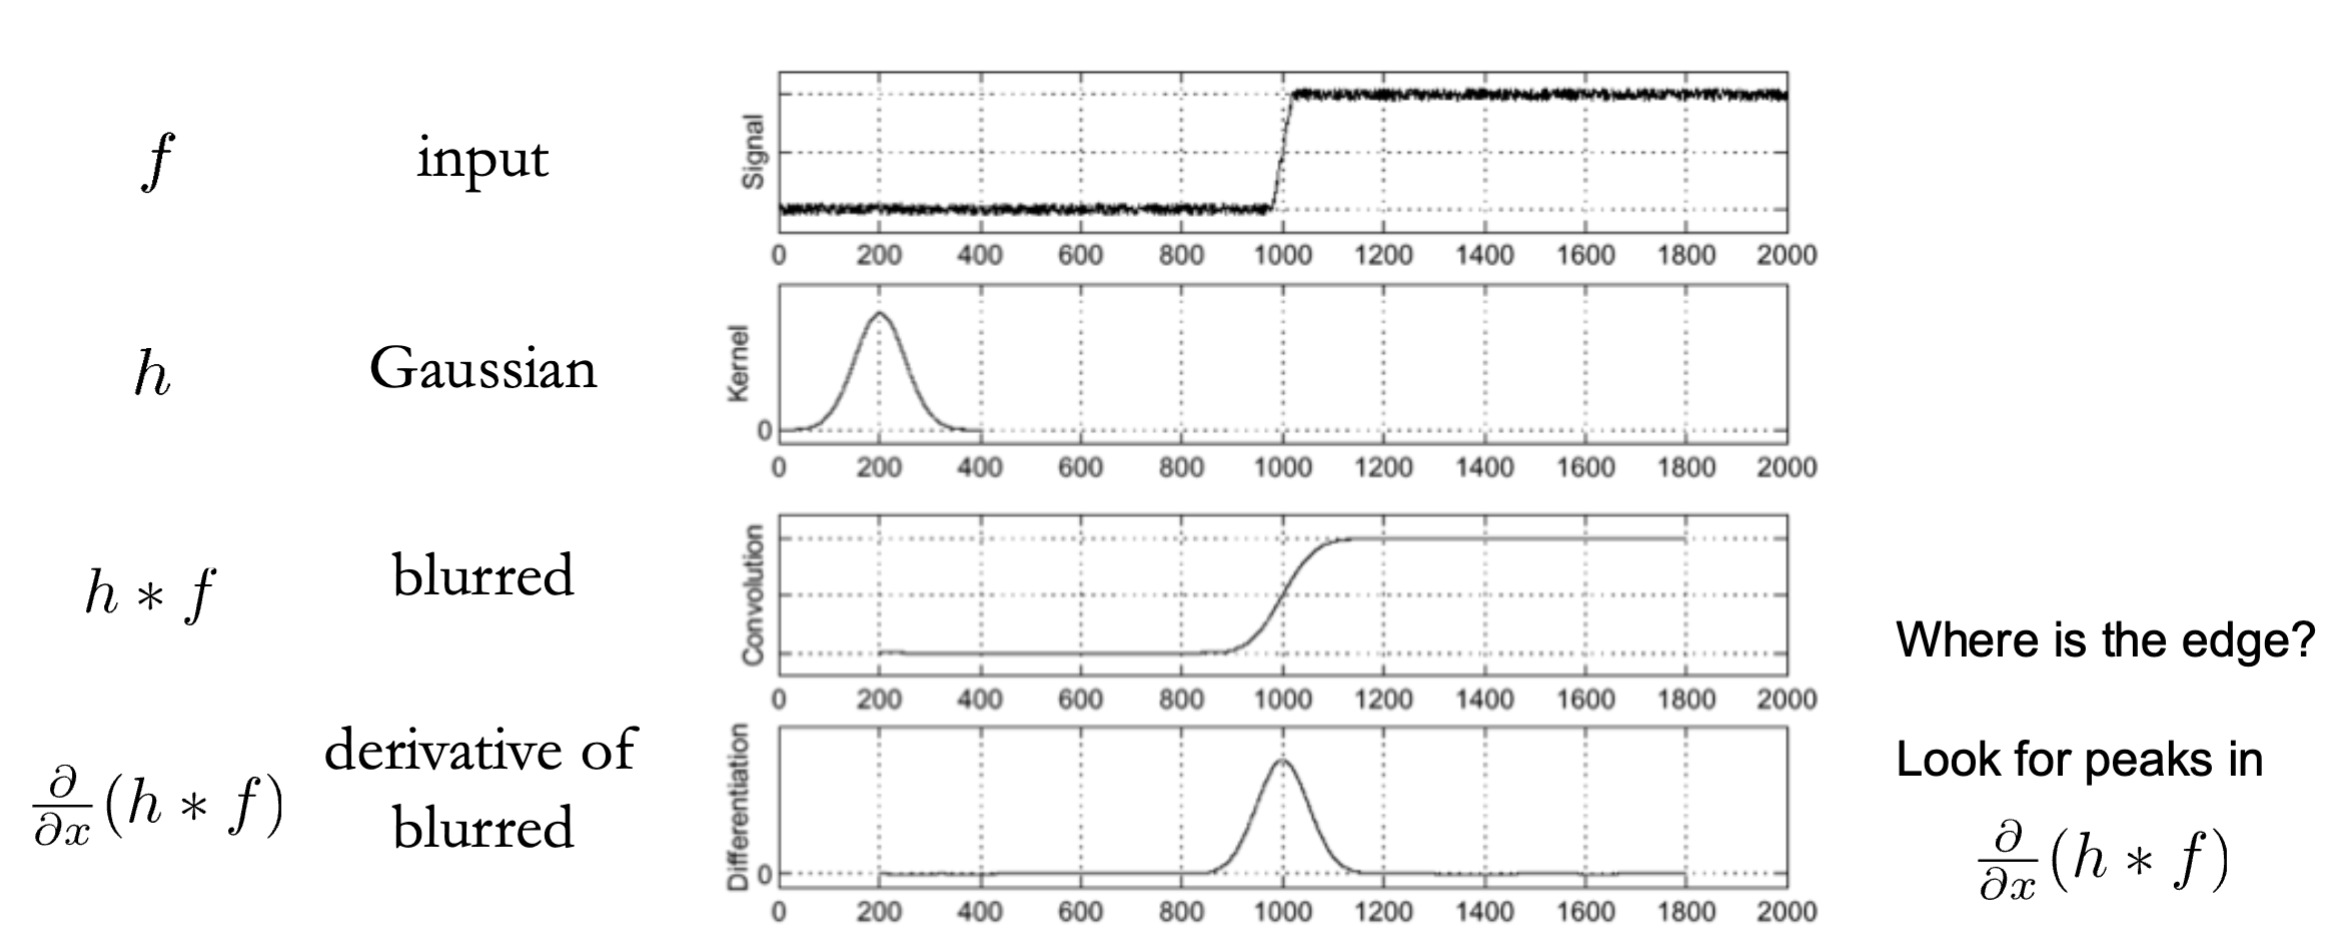
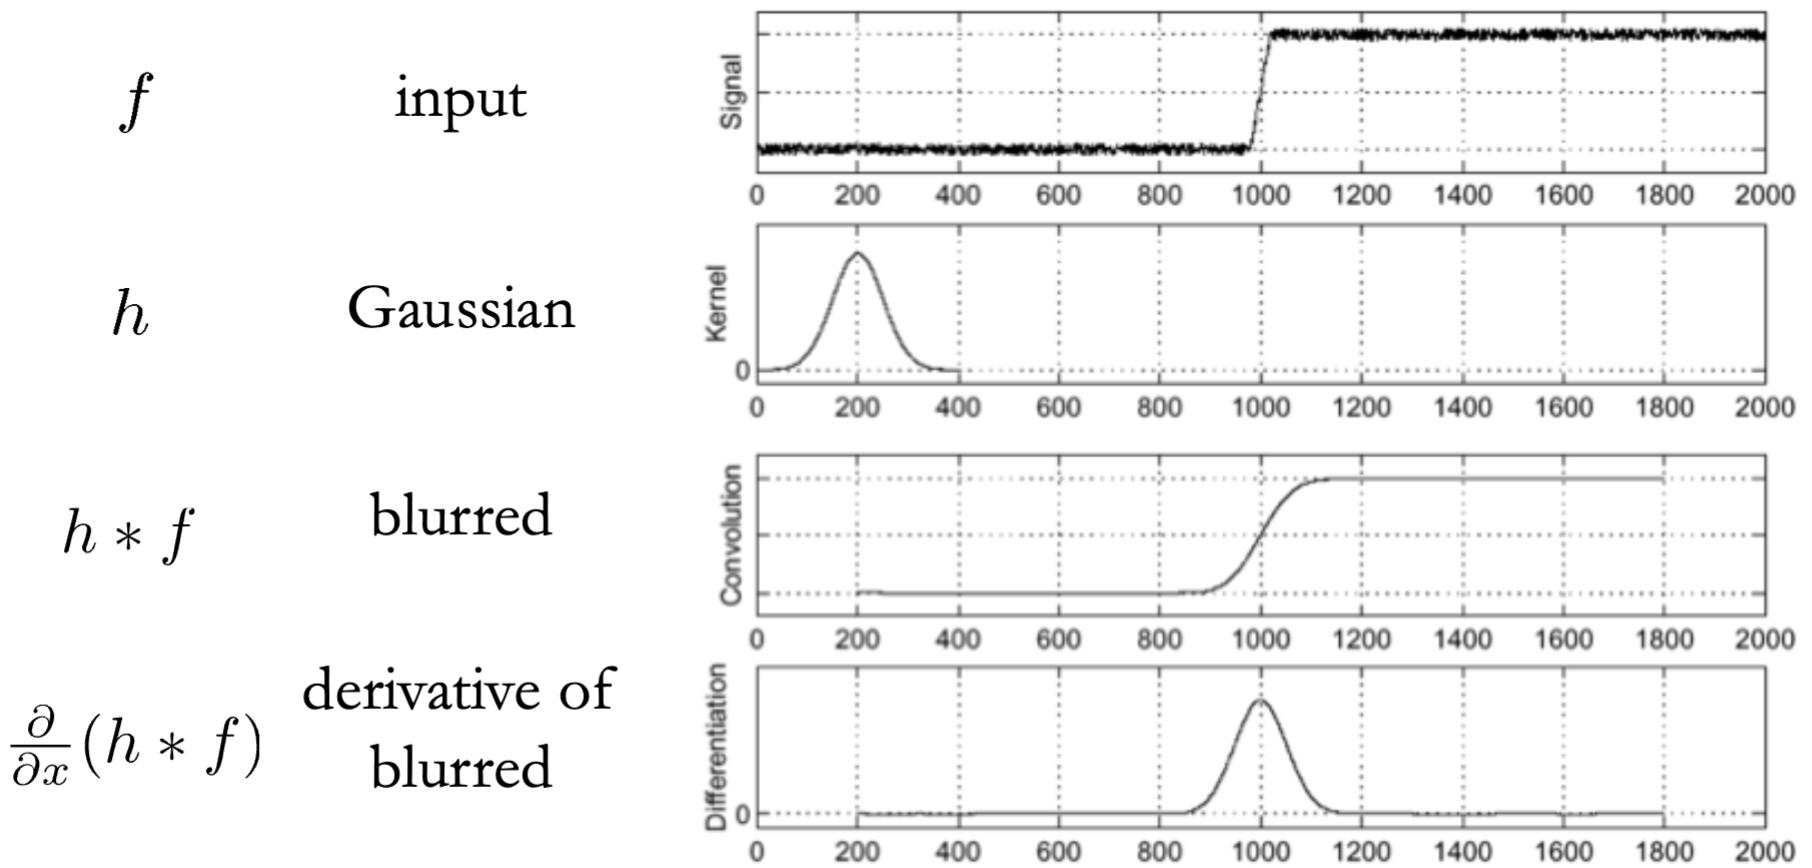
edit gaussian derivative

diff --git a/main.tex b/main.tex
@@ -309,7 +309,7 @@ Conv with $K$ = conv with $u$ then $v$. Cost: $2n$ vs $n^2$ mults.
 
 \textbf{Computing gradients}
 \begin{enumerate}
-    \item Convolve gradient filter with image f to compute image gradient components \\ 
+    \item Convolve gradient filter with image f to compute \\image gradient components \\ 
     $\mathbf{G_x} = \dfrac{\partial \boldsymbol{f}}{\partial x} = \boldsymbol{S}_x * \boldsymbol{f}$
     \qquad
     $\mathbf{G_y} = \dfrac{\partial \boldsymbol{f}}{\partial y} = \boldsymbol{S}_y * \boldsymbol{f}$
@@ -320,13 +320,17 @@ Conv with $K$ = conv with $u$ then $v$. Cost: $2n$ vs $n^2$ mults.
 Differentiation accentuates noise (multiplicative factor proportional to frequency) $\Rightarrow$ blur before using derivative features to remove noise (but the edge will blur).
 \vspace{-1.5em}
 \begin{center}
-    \includegraphics[width=0.75\linewidth]{blur.png}
+    \includegraphics[width=\linewidth]{blur.png}
 \end{center}
-Stronger Gaussian returns more high-frequency noise $\rightarrow$ spreads edge across larger region.
+\vspace{-1.7em}
+\begin{center}
+    \includegraphics[width=\linewidth]{gaussianD.png}
+\end{center}
+\vspace{-1.0em}
 
-\textbf{Differentiation Property: } $\tfrac{\partial}{\partial x}(h * f) = \left(\tfrac{\partial}{\partial x}h\right) * f$ \\
-Differentiation is a convolution operation:\\
-$f * [1\;\;0\;\;{-1}]$ (x-direction) or $f * [1\;\;0\;\;{-1}]^T$ (y-direction)
+\textbf{Differentiation Property:}
+$$\large\frac{\partial}{\partial x}(h*f)=(\large\frac \partial{\partial x}h)*f=(h*g)*f$$
+$g$: filter kernel, $h$: Gaussian kernel, $f$: input
 
 \subsection{Laplacian Operator}
 \begin{formulabox}
